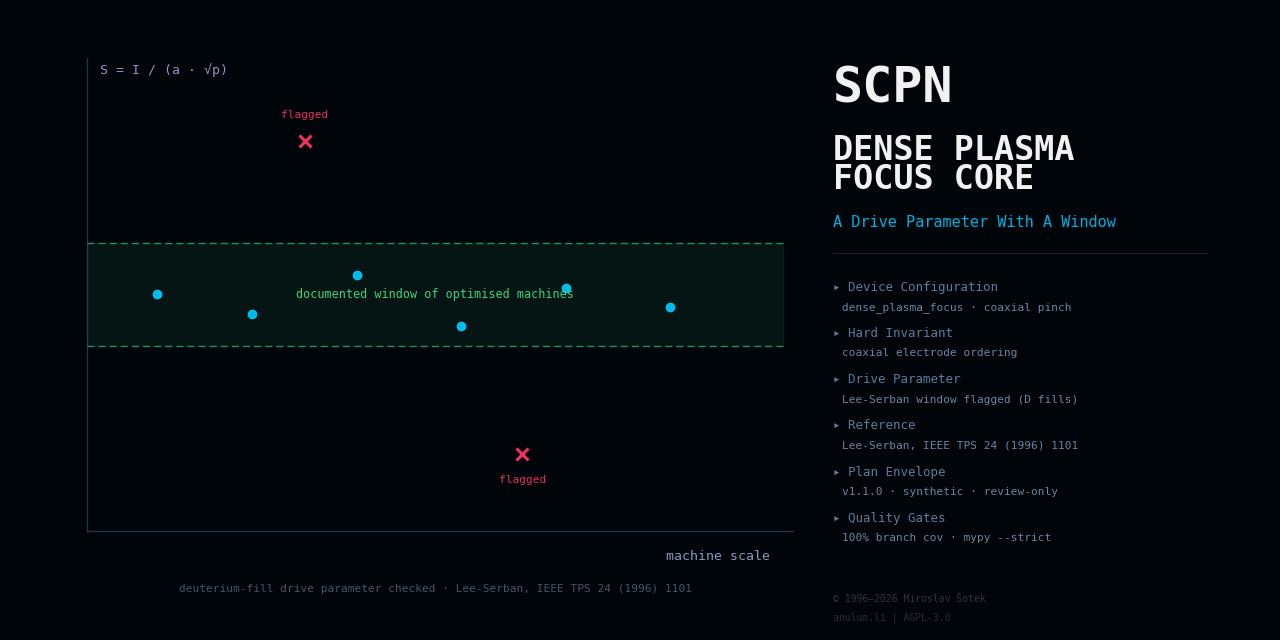
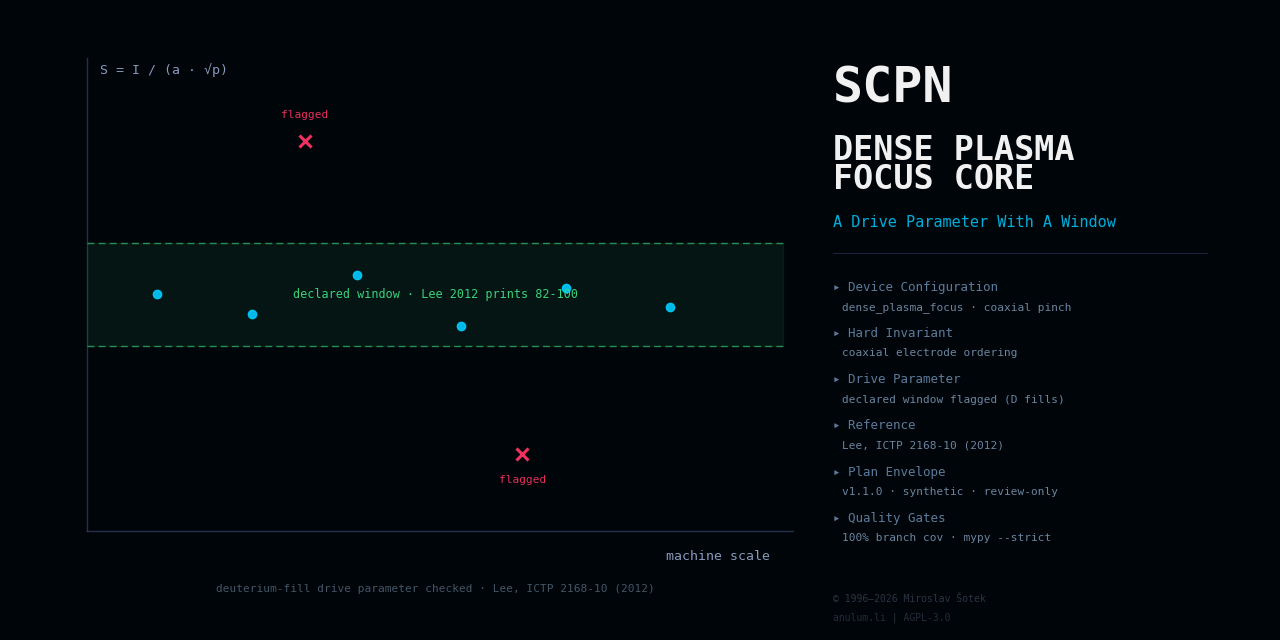
docs(configuration): bind the drive-parameter window to the filed Lee note
The configuration and parameter modules, ADR 0002, VALIDATION and the
header artwork credited the drive parameter and its deuterium window
[66, 108] to Lee & Serban, IEEE TPS 24 (1996) 1101, which is not on
file, and called the window "the documented window of optimised
machines". The filed S. Lee, "The Plasma Focus: Scaling Properties to
Scaling Laws", ICTP 2168-10 (2012), PDF p. 5 (printed p. 3), Table 1,
prints the speed or drive factor (I_peak / a) / P0^0.5 of three
deuterium machines (PF1000, UNU ICTP, PF-400J) as 82 to 100, practically
constant around 90.

The parameter now cites that page; the [66, 108] window, which contains
the printed range but is not itself printed, is named declared; the
finding says "declared deuterium window" and its test asserts it. ADR
0002 gains a dated amendment. The header generator labels follow, and
the three PNGs are regenerated (a regeneration from the unchanged
generator was byte-identical first; the drive-window image was viewed).
No value or check changes.

Verification: ruff, format and mypy strict clean; targeted tests
test_configuration, test_parameters, test_repository_contract,
test_derive_studio_descriptor and test_generate_capability_inventory:
132 passed in 1.48s. Staged diff read line by line before commit.

Seat: 09bd
Authored by Anulum Fortis & Arcane Sapience (protoscience@anulum.li)

diff --git a/docs/assets/generate_header.py b/docs/assets/generate_header.py
@@ -11,7 +11,7 @@
 Every image is original generated artwork derived from this repository's
 own domain surface — the coaxial electrode set with its sweeping
 current sheath and focus, the three declared discharge phases, and the
-Lee-Serban drive-parameter window the configuration model checks. The
+declared drive-parameter window the configuration model checks. The
 right-hand text panel states only facts backed by the repository
 itself.
 
@@ -21,8 +21,8 @@ Outputs (written next to this script):
   sheath and the dense focus at the anode tip (used by ``README.md``).
 - ``repo_header_discharge_phases.png`` — breakdown, axial rundown and
   radial focus as a sequence.
-- ``repo_header_drive_window.png`` — the drive-parameter window of
-  optimised machines with flagged outliers.
+- ``repo_header_drive_window.png`` — the declared drive-parameter window
+  with flagged outliers.
 
 Generation-time tooling only: requires ``numpy`` and ``matplotlib``,
 which are deliberately not part of the pinned development lock. Run as
@@ -52,8 +52,8 @@ WIDTH_IN, HEIGHT_IN, DPI = 12.8, 6.4, 100
 TITLE_METRICS: list[tuple[str, str]] = [
     ("Device Configuration", "dense_plasma_focus · coaxial pinch"),
     ("Hard Invariant", "coaxial electrode ordering"),
-    ("Drive Parameter", "Lee-Serban window flagged (D fills)"),
-    ("Reference", "Lee-Serban, IEEE TPS 24 (1996) 1101"),
+    ("Drive Parameter", "declared window flagged (D fills)"),
+    ("Reference", "Lee, ICTP 2168-10 (2012)"),
     ("Plan Envelope", "v1.1.0 · synthetic · review-only"),
     ("Quality Gates", "100% branch cov · mypy --strict"),
 ]
@@ -491,7 +491,7 @@ def generate_drive_window() -> None:
     ax.text(
         5.0,
         (y_low + y_high) / 2,
-        "documented window of optimised machines",
+        "declared window · Lee 2012 prints 82-100",
         color=GREEN,
         fontsize=8.5,
         fontfamily="monospace",
@@ -547,7 +547,7 @@ def generate_drive_window() -> None:
     ax.text(
         5.0,
         0.75,
-        "deuterium-fill drive parameter checked · Lee-Serban, IEEE TPS 24 (1996) 1101",
+        "deuterium-fill drive parameter checked · Lee, ICTP 2168-10 (2012)",
         color="#445566",
         fontsize=8,
         fontfamily="monospace",

diff --git a/src/scpn_dense_plasma_focus_core/configuration.py b/src/scpn_dense_plasma_focus_core/configuration.py
@@ -10,9 +10,13 @@
 
 A :class:`DeviceConfiguration` composes a validated electrode set and
 bank/fill declaration under the single registry identifier this
-repository owns. The coaxial ordering is hard; for deuterium fills the
-Lee-Serban drive parameter outside the documented window of optimised
-machines is flagged (Lee & Serban, IEEE TPS 24 (1996) 1101).
+repository owns. The coaxial ordering is hard; for deuterium fills a
+Lee-Serban drive parameter outside the declared window ``[66, 108]`` is
+flagged. The filed S. Lee, ICTP 2168-10 (2012), PDF p. 5 (printed p. 3),
+prints the speed or drive factor ``(I_peak / a) / P0^0.5`` of three
+deuterium machines as 82 to 100 (kA/cm) torr^-0.5, practically constant
+around 90; the window is a declared modelling choice that contains that
+range. Lee & Serban, IEEE TPS 24 (1996) 1101, is not on file.
 Serialisation is canonical (sorted keys, no NaN or infinity accepted
 anywhere) and the SHA-256 digest of those bytes identifies the exact
 parameter set. The registry binding is a data pin only — this package
@@ -146,8 +150,8 @@ class DeviceConfiguration:
         Returns
         -------
         tuple of ConsistencyFinding
-            Advisory findings from the documented estimates; empty when
-            a deuterium drive parameter sits in the documented window,
+            Advisory findings from the declared estimates; empty when
+            a deuterium drive parameter sits in the declared window,
             and always empty for non-deuterium fills. Findings are
             advisory instruments, not machine claims.
         """
@@ -161,7 +165,7 @@ class DeviceConfiguration:
                         field="bank.peak_current_ma",
                         message=(
                             f"drive parameter {drive:.1f} kA/cm/sqrt(Torr) "
-                            f"is outside the documented deuterium window "
+                            f"is outside the declared deuterium window "
                             f"[{low:.0f}, {high:.0f}]"
                         ),
                     )

diff --git a/src/scpn_dense_plasma_focus_core/parameters.py b/src/scpn_dense_plasma_focus_core/parameters.py
@@ -10,8 +10,11 @@
 
 The derived quantity implements one standard result and nothing more:
 the drive parameter ``S = I_peak / (a sqrt(p))`` in
-kA cm^-1 Torr^-1/2 (S. Lee, A. Serban, IEEE Trans. Plasma Sci. 24
-(1996) 1101). It is a rough consistency instrument with documented
+kA cm^-1 Torr^-1/2, the speed or drive factor ``(I_peak / a) / P0^0.5``
+printed in the filed S. Lee, ICTP 2168-10 (2012), PDF p. 5 (printed
+p. 3); it is named after S. Lee and A. Serban, IEEE Trans. Plasma Sci.
+24 (1996) 1101, which is not on file. It is a rough consistency
+instrument with documented
 applicability bounds; no claim about any real machine follows from it.
 """
 
@@ -174,7 +177,7 @@ class BankAndFill:
         -------
         float
             ``S = I_peak / (a sqrt(p))`` in kA cm^-1 Torr^-1/2
-            (Lee & Serban, IEEE TPS 24 (1996) 1101).
+            (Lee, ICTP 2168-10 (2012), PDF p. 5).
         """
         current_ka = self.peak_current_ma * 1.0e3
         anode_cm = electrodes.anode_radius_m * 1.0e2

diff --git a/tests/test_configuration.py b/tests/test_configuration.py
@@ -88,6 +88,7 @@ def test_consistency_report_clean_and_findings() -> None:
     findings = weak.consistency_report()
     assert len(findings) == 1
     assert "deuterium window" in findings[0].message
+    assert "declared deuterium window" in findings[0].message
     non_deuterium = synthetic_configuration(peak_current_ma=0.1, deuterium_fill=False)
     assert non_deuterium.consistency_report() == ()
 

diff --git a/docs/adr/0002-device-configuration-model.md b/docs/adr/0002-device-configuration-model.md
@@ -37,12 +37,13 @@ follow the family pilot.
 3. Hard invariant: the cathode radius is strictly larger than the anode
    radius — the coaxial-gun geometry of the Mather/Filippov family.
 4. Derived quantity with citation: the drive parameter
-   ``S = I_peak / (a sqrt(p))`` in kA cm^-1 Torr^-1/2 (S. Lee,
-   A. Serban, IEEE Trans. Plasma Sci. 24 (1996) 1101). Advisory
-   finding, reported by `consistency_report()` and never clamped: for a
-   deuterium fill, a drive parameter outside the documented
-   ``[66, 108]`` window of optimised machines; the window is not
-   applied to other fill gases.
+   ``S = I_peak / (a sqrt(p))`` in kA cm^-1 Torr^-1/2 (named after
+   S. Lee, A. Serban, IEEE Trans. Plasma Sci. 24 (1996) 1101, not on
+   file; printed as the speed or drive factor in the filed S. Lee, ICTP
+   2168-10 (2012), PDF p. 5). Advisory finding, reported by
+   `consistency_report()` and never clamped: for a deuterium fill, a
+   drive parameter outside the declared ``[66, 108]`` window; the window
+   is not applied to other fill gases.
 5. Repository-level `evidence_maturity` = the highest state claimed by
    any capability entry; per-capability states are the authoritative
    claim surface.
@@ -61,3 +62,14 @@ follow the family pilot.
   thermal/beam separation, safety envelope) build on these types;
   maturity advances per capability only with the evidence the family
   standard requires.
+
+## Amendment 2026-10-31
+
+The drive parameter and its deuterium window were credited to Lee &
+Serban (1996), which is not on file, and the window was called the
+documented window of optimised machines. The filed Lee (2012) note,
+PDF p. 5 (printed p. 3), prints the speed or drive factor of three
+deuterium machines (PF1000, UNU ICTP, PF-400J) as 82 to 100 (kA/cm)
+torr^-0.5, practically constant around 90. The ``[66, 108]`` window
+contains that range but is not printed in a filed source, so it is named
+declared. No value or check changed.

diff --git a/VALIDATION.md b/VALIDATION.md
@@ -77,11 +77,13 @@ What is exercised, all under the 100 % statement-and-branch coverage gate:
   extents, and an anode at or beyond the cathode radius (the hard
   coaxial-gun invariant of the Mather/Filippov family) — every rejection
   branch is tested.
-- The Lee-Serban drive parameter `S = I_peak / (a sqrt(p))`
-  (Lee & Serban, IEEE Trans. Plasma Sci. 24 (1996) 1101) as a
-  documented derived quantity, with an advisory finding outside the
-  documented deuterium window `[66, 108]` kA cm^-1 Torr^-1/2 (not
-  applied to other fill gases), reported and never clamped.
+- The Lee-Serban drive parameter `S = I_peak / (a sqrt(p))` (named
+  after Lee & Serban, IEEE Trans. Plasma Sci. 24 (1996) 1101, not on
+  file; printed as the speed or drive factor in the filed Lee, ICTP
+  2168-10 (2012), PDF p. 5, with 82 to 100 for three deuterium machines)
+  as a derived quantity, with an advisory finding outside the declared
+  deuterium window `[66, 108]` kA cm^-1 Torr^-1/2 (not applied to other
+  fill gases), reported and never clamped.
 - Canonical serialisation (sorted keys, NaN/infinity rejected on both
   emit and parse), SHA-256 digest identity, and a strict round-trip
   parser that refuses unknown fields.
